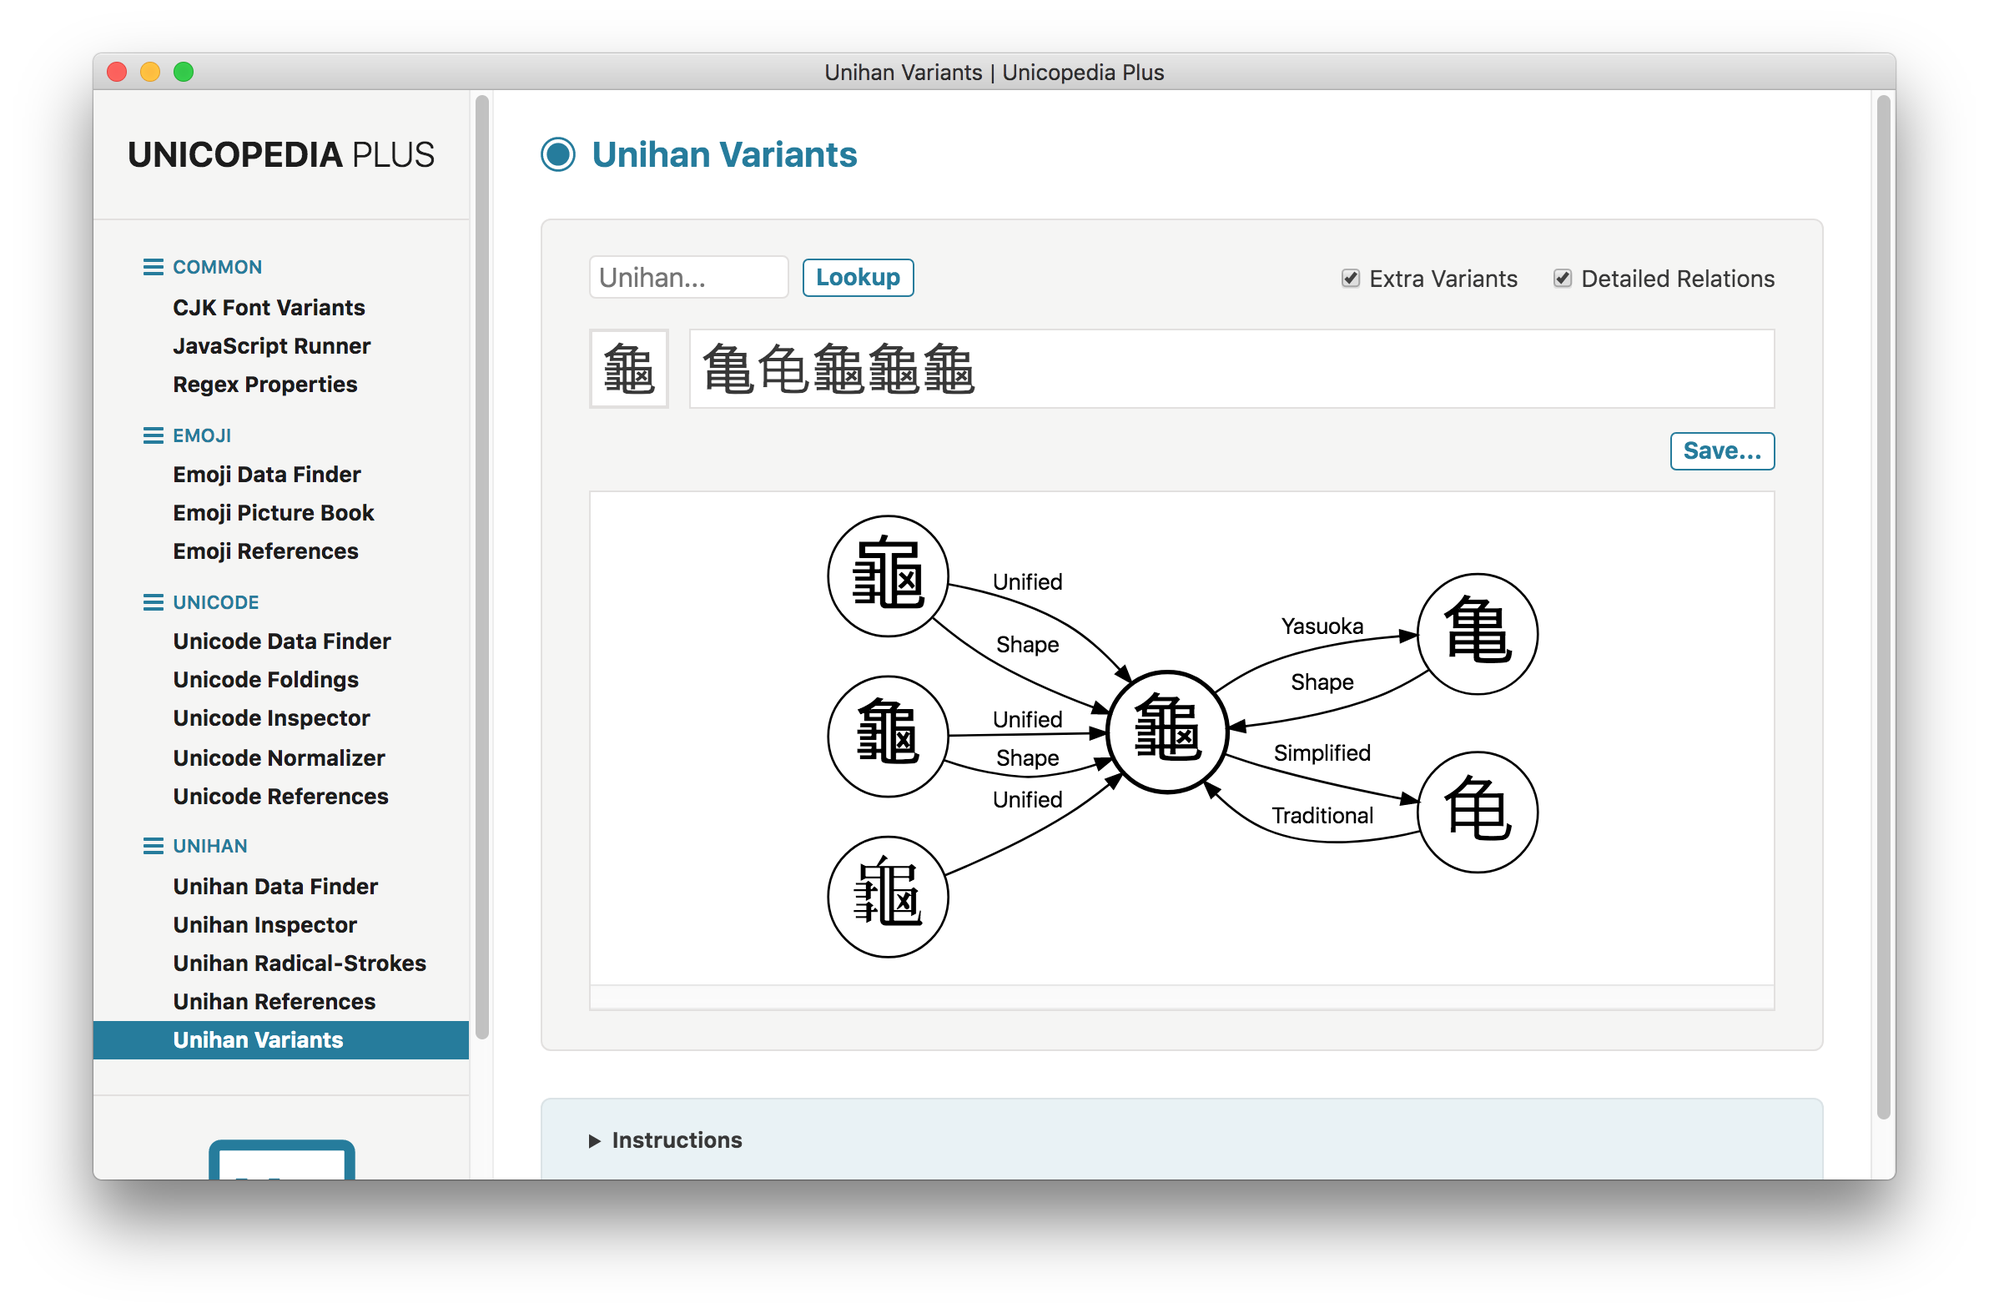
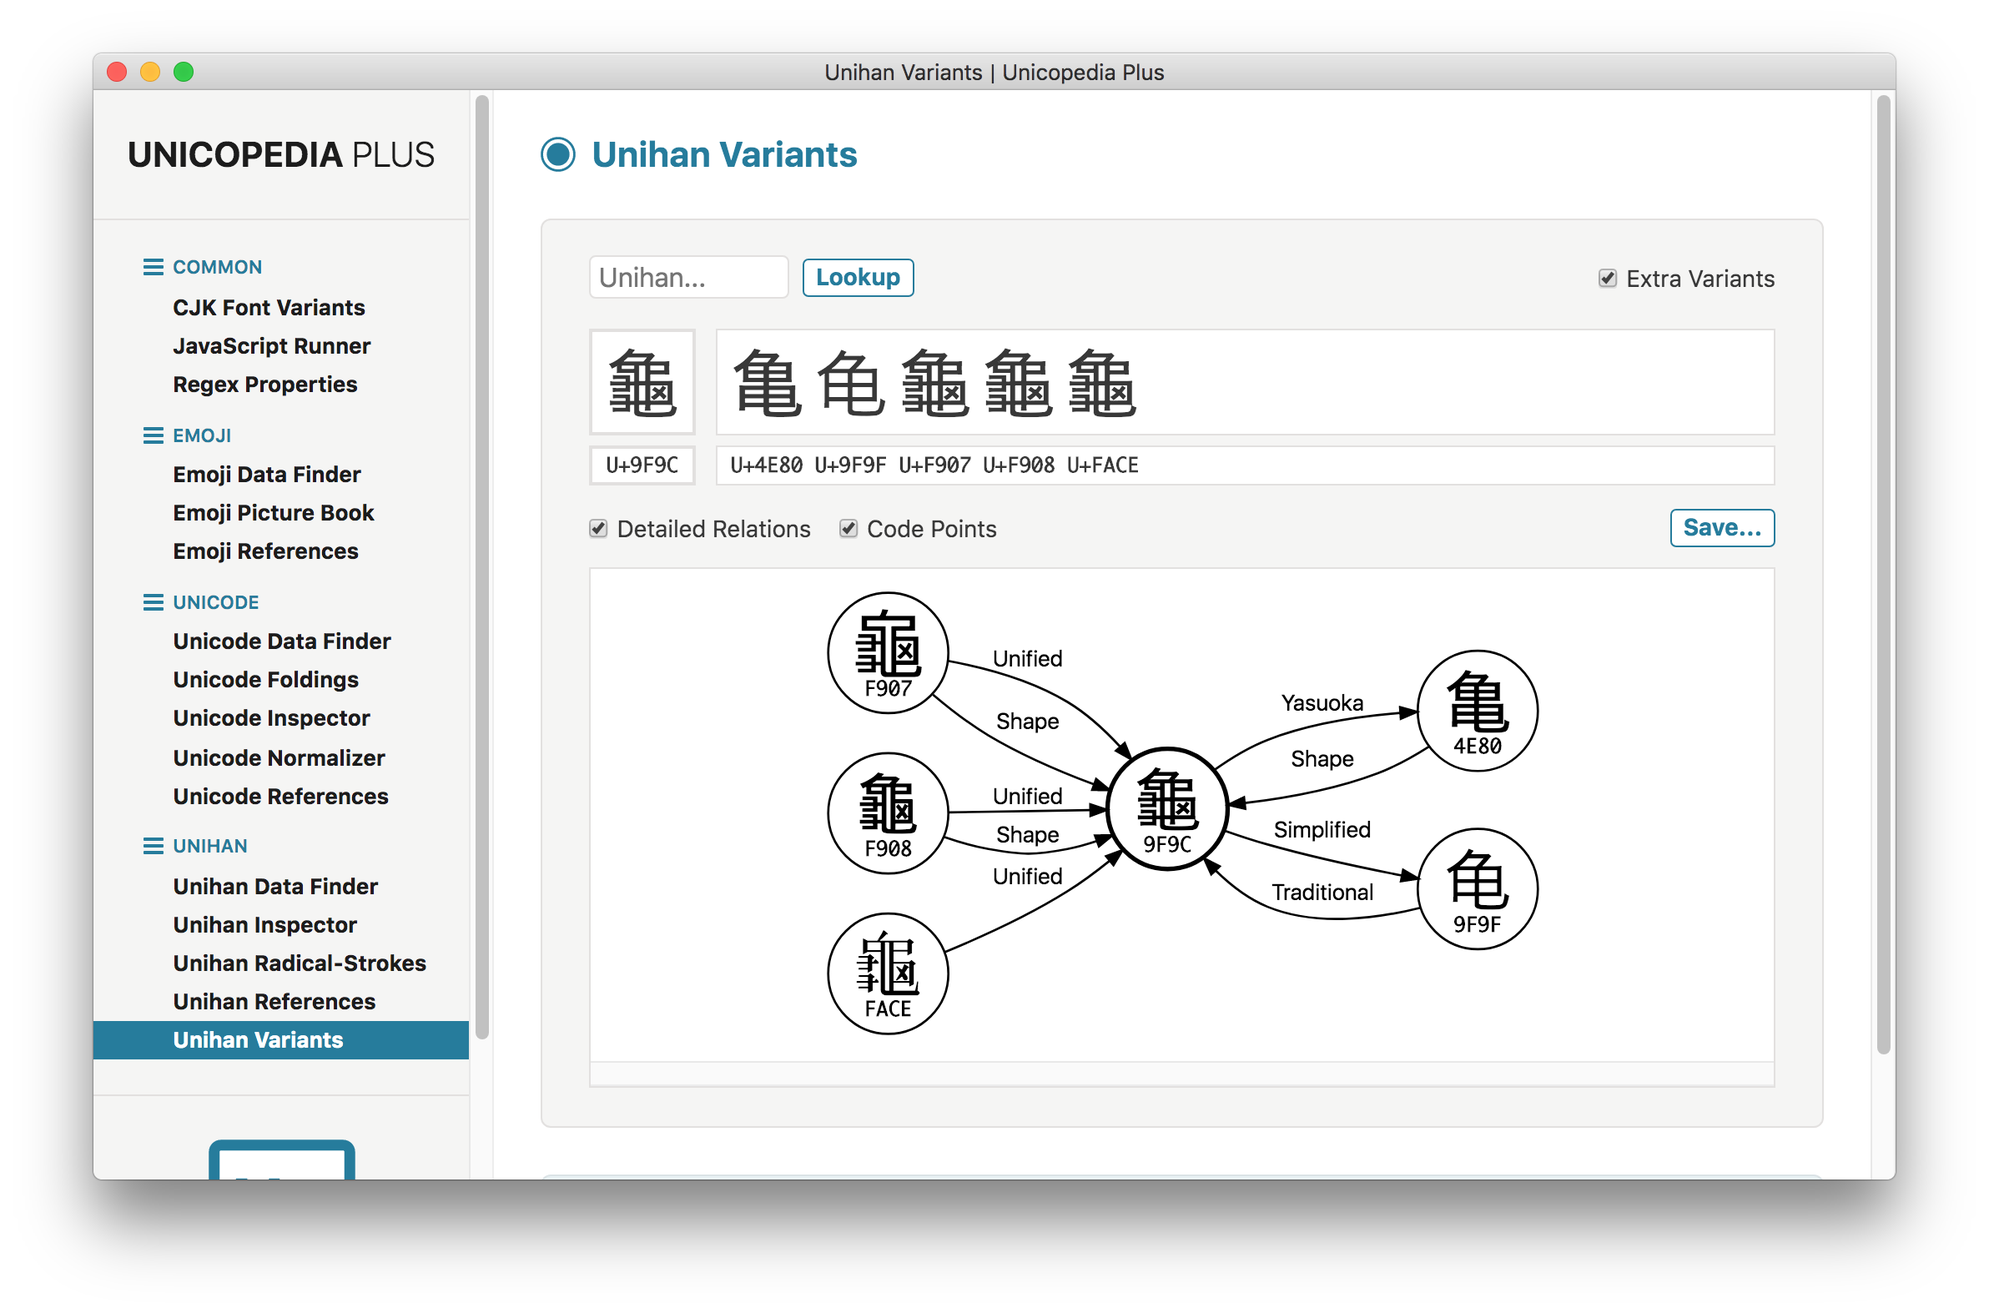
Updated app to 6.7.0

diff --git a/renderer/units/Unihan Variants/import.js b/renderer/units/Unihan Variants/import.js
@@ -4,9 +4,12 @@ const unit = document.getElementById ('unihan-variants-unit');
 const unihanInput = unit.querySelector ('.unihan-input');
 const lookupButton = unit.querySelector ('.lookup-button');
 const extraVariantsCheckbox = unit.querySelector ('.extra-variants-checkbox');
-const detailedRelationsCheckbox = unit.querySelector ('.detailed-relations-checkbox');
 const linearCharacter = unit.querySelector ('.linear-character');
 const linearVariants = unit.querySelector ('.linear-variants');
+const linearCodePoint = unit.querySelector ('.linear-code-point');
+const linearCodePoints = unit.querySelector ('.linear-code-points');
+const codePointsCheckbox = unit.querySelector ('.code-points-checkbox');
+const detailedRelationsCheckbox = unit.querySelector ('.detailed-relations-checkbox');
 const saveSVGButton = unit.querySelector ('.save-svg-button');
 const graphContainer = unit.querySelector ('.graph-container');
 //
@@ -50,6 +53,7 @@ module.exports.start = function (context)
         unihanHistory: [ ],
         unihanCharacter: "",
         extraVariantsCheckbox: false,
+        codePointsCheckbox: false,
         detailedRelationsCheckbox: false,
         defaultFolderPath: context.defaultFolderPath,
         instructions: true
@@ -257,6 +261,30 @@ module.exports.start = function (context)
     let dotString;
     let svgResult;
     //
+    let parser = new DOMParser ();
+    let serializer = new XMLSerializer ();
+    //
+    function postProcessSVG (svg)
+    {
+        let doc = parser.parseFromString (svg, 'text/xml');
+        let ellipses = doc.documentElement.querySelectorAll ('ellipse');
+        for (let ellipse of ellipses)
+        {
+            let cx = ellipse.getAttribute ('cx');
+            let texts = ellipse.parentNode.querySelectorAll ('text');
+            for (let text of texts)
+            {
+                let textAnchor = text.getAttribute ('text-anchor');
+                if (textAnchor !== "middle")
+                {
+                    text.setAttribute ('text-anchor', "middle");
+                    text.setAttribute ('x', cx);
+                }
+            }
+        }
+        return serializer.serializeToString (doc);
+    }
+    //
     function displayData (character)
     {
         dotString = "";
@@ -272,6 +300,8 @@ module.exports.start = function (context)
         {
             linearVariants.firstChild.remove ();
         }
+        linearCodePoint.textContent = "";
+        linearCodePoints.textContent = "";
         while (graphContainer.firstChild)
         {
             graphContainer.firstChild.remove ();
@@ -296,6 +326,7 @@ module.exports.start = function (context)
             symbol.title = getTooltip (character);
             symbol.textContent = character;
             linearCharacter.appendChild (symbol);
+            linearCodePoint.textContent = unicode.charactersToCodePoints (character);
             let relations = getVariantRelations (character);
             // console.log (relations);
             let variants = [ ];
@@ -322,12 +353,35 @@ module.exports.start = function (context)
                     symbol.textContent = variant;
                     linearVariants.appendChild (symbol);
                 }
+                linearCodePoints.textContent = unicode.charactersToCodePoints (variants.join (""));
             }
             try
             {
+                function getOptionsString (character, isLookedUp)
+                {
+                    let codePoint = unicode.charactersToCodePoints (character);
+                    let label = (codePointsCheckbox.checked) ?
+                        '<<FONT FACE="system-ui, sans-serif" POINT-SIZE="33">{{character}}</FONT><BR/><FONT FACE="Monaco, Noto Mono, monospace" POINT-SIZE="9"><B>{{codepoint}}</B></FONT>>' :
+                        '<<FONT FACE="system-ui, sans-serif" POINT-SIZE="36">{{character}}</FONT>>'                        
+                    let options =
+                    [
+                        { name: "tooltip", value: JSON.stringify (getTooltip (character)) },
+                        { name: "style", value: isLookedUp && "bold" },
+                        { name: "label", value: label.replace ("{{character}}", character).replace ("{{codepoint}}", codePoint.replace ("U+", "")) }
+                    ];
+                    let optionsArray = [ ];
+                    for (let option of options)
+                    {
+                        if (option.value)
+                        {
+                            optionsArray.push (`${option.name} = ${option.value}`);
+                        }
+                    }
+                    return optionsArray.join (", ");
+                }
                 let data = "";
-                data += `    "${character}" [ tooltip = ${JSON.stringify (getTooltip (character))}, style = bold ]`;
-                data += variants.map (variant => `\n    "${variant}" [ tooltip = ${JSON.stringify (getTooltip (variant))} ]`).join ("");
+                data += `    "${character}" [ ${getOptionsString (character, true)} ]`;
+                data += variants.map (variant => `\n    "${variant}" [ ${getOptionsString (variant)} ]`).join ("");
                 if (detailedRelationsCheckbox.checked)
                 {
                     let toCharacters = { };
@@ -382,10 +436,12 @@ module.exports.start = function (context)
                     data += variants.map (variant => `\n    "${character}" -- "${variant}"`).join ("");
                 }
                 // console.log (data);
+                let codePoint = unicode.charactersToCodePoints (character);
                 dotString =
                     dotTemplate
                     .replace ('{{graph}}', detailedRelationsCheckbox.checked ? 'digraph' : 'graph')
                     .replace ('{{rankdir}}', detailedRelationsCheckbox.checked ? 'LR' : 'TB')
+                    .replace ('{{comment}}', JSON.stringify (`${character} ${codePoint} | ${context.name} | ${context.app}`))
                     .replace ('{{data}}', data);
                 // console.log (dotString);
                 viz.renderString (dotString, { engine: 'dot', format: 'svg' })
@@ -393,7 +449,7 @@ module.exports.start = function (context)
                 (
                     result =>
                     {
-                        svgResult = result;
+                        svgResult = postProcessSVG (result); // Hack to fix incorrect horizontal centering of text in circle!
                         graphContainer.innerHTML = svgResult;
                         saveSVGButton.disabled = false;
                     }
@@ -410,7 +466,6 @@ module.exports.start = function (context)
         unihanInput.value = "";
         unihanInput.dispatchEvent (new Event ('input'));
         displayData (character);
-        unit.scrollTop = 0;
     }
     //
     graphContainer.addEventListener
@@ -459,6 +514,9 @@ module.exports.start = function (context)
     //
     extraVariantsCheckbox.checked = prefs.extraVariantsCheckbox;
     extraVariantsCheckbox.addEventListener ('click', (event) => { updateUnihanData (currentUnihanCharacter); });
+    //
+    codePointsCheckbox.checked = prefs.codePointsCheckbox;
+    codePointsCheckbox.addEventListener ('click', (event) => { updateUnihanData (currentUnihanCharacter); });
     //
     detailedRelationsCheckbox.checked = prefs.detailedRelationsCheckbox;
     detailedRelationsCheckbox.addEventListener ('click', (event) => { updateUnihanData (currentUnihanCharacter); });
@@ -515,6 +573,7 @@ module.exports.stop = function (context)
         unihanHistory: unihanHistory,
         unihanCharacter: currentUnihanCharacter,
         extraVariantsCheckbox: extraVariantsCheckbox.checked,
+        codePointsCheckbox: codePointsCheckbox.checked,
         detailedRelationsCheckbox: detailedRelationsCheckbox.checked,
         defaultFolderPath: defaultFolderPath,
         instructions: instructions.open

diff --git a/renderer/units/Unihan Variants/import.html b/renderer/units/Unihan Variants/import.html
@@ -6,16 +6,24 @@
                 <button class="lookup-button" type="button">Lookup</button>
             </span>
             <span class="option-group">
-                <label class="checkbox" title="If checked, Yasuoka variants are also included; if unchecked, only the standard Unihan variants are listed"><input class="extra-variants-checkbox" type="checkbox">&nbsp;Extra Variants</label>
-                <label class="checkbox" title="If checked, detailed relations are displayed, making use of a directed labeled graph; if unchecked, a basic undirected graph is used instead"><input class="detailed-relations-checkbox" type="checkbox">&nbsp;Detailed Relations</label>
+                <label class="checkbox" title="If checked, Yasuoka variants are also included;&#10;if unchecked, only the standard Unihan variants are listed"><input class="extra-variants-checkbox" type="checkbox">&nbsp;Extra Variants</label>
             </span>
         </div>
         <table class="linear-wrapper">
-            <tr class="linear-row">
+            <tr class="linear-row characters">
                 <td class="linear-character"></td><td class="linear-gap"></td><td class="linear-variants"></td>
             </tr>
+            <tr class="linear-row-gap"></tr>
+            <tr class="linear-row code-points">
+                <td class="linear-code-point"></td><td class="linear-gap"></td><td class="linear-code-points"></td>
+            </tr>
+        </table>
         </table>
         <div class="options">
+            <span class="option-group">
+                <label class="checkbox" title="If checked, detailed relations are displayed, making use of a directed labeled graph;&#10;if unchecked, a basic undirected graph is used instead"><input class="detailed-relations-checkbox" type="checkbox">&nbsp;Detailed Relations</label>
+                <label class="checkbox" title="If checked, code points are displayed below each Unihan character of the graph"><input class="code-points-checkbox" type="checkbox">&nbsp;Code Points</label>
+            </span>
             <span class="action">
                 <button class="save-svg-button" type="button">Save...</button>
             </span>
@@ -33,6 +41,7 @@
                 <li>Previously looked up characters are kept in a history stack; use the <kbd>Alt</kbd>+<kbd>↑</kbd> and <kbd>Alt</kbd>+<kbd>↓</kbd> keyboard shortcuts to navigate through them up and down inside the input field.</li>
                 <li>Click the <kbd>Extra Variants</kbd> checkbox to include the Yasuoka variants as well; otherwise, only the standard Unihan variants are listed.</li>
                 <li>Click the <kbd>Detailed Relations</kbd> checkbox to make use of a directed labeled graph to display variant relations; otherwise, a basic undirected graph is used instead.</li>
+                <li>Click the <kbd>Code Points</kbd> checkbox to display as well the code point of each Unihan character of the graph.</li>
                 <li>The different variant relations are indicated using the following labels:
                     <ul>
                         <li><code>Semantic</code>: characters listed under the <em>kSemanticVariant</em> Unihan tag</li>

diff --git a/renderer/units/Unihan Variants/import.css b/renderer/units/Unihan Variants/import.css
@@ -50,7 +50,8 @@
     outline-color: var(--color-error);
 }
 
-#unihan-variants-unit .checkbox:last-of-type
+#unihan-variants-unit .code-points-checkbox,
+#unihan-variants-unit .save-svg-button
 {
     margin-left: 1.5em;
 }
@@ -64,34 +65,37 @@
 
 #unihan-variants-unit .linear-row
 {
-    font-size: 36px;
+    background-color: white;
+    font-size: 48px;
     line-height: 1em;
     vertical-align: middle;
-    height: 48px;
+    height: 64px;
     user-select: text;
     cursor: text;
 }
 
-#unihan-variants-unit .linear-character
+#unihan-variants-unit .linear-character,
+#unihan-variants-unit .linear-code-point
 {
-    background-color: white;
     border: 2px solid var(--color-border);
     text-align: center;
     vertical-align: middle;
-    width: 48px;
-    min-width: 48px;
+    width: 64px;
+    min-width: 64px;
 }
 
-#unihan-variants-unit .linear-variants
+#unihan-variants-unit .linear-variants,
+#unihan-variants-unit .linear-code-points
 {
-    background-color: white;
     border: 1px solid var(--color-border);
     text-align: left;
     vertical-align: middle;
     width: 100%;
     white-space: nowrap;
+    max-width: 0;
     overflow: hidden;
-    padding: 0 6px;
+    text-overflow: ellipsis;
+    padding: 0 8px;
 }
 
 #unihan-variants-unit .linear-gap
@@ -105,10 +109,30 @@
     user-select: none;
 }
 
+#unihan-variants-unit .linear-row-gap
+{
+    height: 6px;
+    border: none;
+    background: none;
+}
+
+#unihan-variants-unit .linear-variants
+{
+    letter-spacing: 6px;
+}
+
+#unihan-variants-unit .linear-row.code-points
+{
+    font-family: Monaco, "Noto Mono", monospace;
+    font-size: 12px;
+    font-weight: bold;
+    height: 2em;
+}
+
 #unihan-variants-unit .options
 {
     display: flex;
-    justify-content: flex-end;
+    justify-content: space-between;
     align-items: center;
 }
 

diff --git a/renderer/lib/unicode/unicode.js b/renderer/lib/unicode/unicode.js
@@ -403,6 +403,7 @@ const lineBreaks =
 // https://www.unicode.org/history/publicationdates.html
 const versionDates =
 {
+    "1.0": "October 1991",
     "1.1": "June 1993",
     "2.0": "July 1996",
     "2.1": "May 1998",
@@ -412,7 +413,7 @@ const versionDates =
     "4.0": "April 2003",
     "4.1": "March 2005",
     "5.0": "July 2006",
-    "5.1": "March 2008",
+    "5.1": "April 2008",
     "5.2": "October 2009",
     "6.0": "October 2010",
     "6.1": "January 2012",
@@ -424,7 +425,8 @@ const versionDates =
     "10.0": "June 2017",
     "11.0": "June 2018",
     "12.0": "March 2019",
-    "12.1": "May 2019"
+    "12.1": "May 2019",
+    "13.0": "March 2020"
 };
 //
 function uniHexify (string)
@@ -554,7 +556,7 @@ function getCharacterData (character)
         if ((parseInt (version.first, 16) <= index) && (index <= parseInt (version.last, 16)))
         {
             characterData.age = version.age;
-            characterData.ageDate = versionDates[version.age];
+            characterData.ageDate = versionDates[version.age] || "Date Unknown";
             break;
         }
     }
@@ -834,7 +836,7 @@ function getCharacterBasicData (character)
         if ((parseInt (version.first, 16) <= index) && (index <= parseInt (version.last, 16)))
         {
             characterBasicData.age = version.age;
-            characterBasicData.ageDate = versionDates[version.age];
+            characterBasicData.ageDate = versionDates[version.age] || "Date Unknown";
             break;
         }
     }

diff --git a/renderer/units/Unihan Radical-Strokes/import.html b/renderer/units/Unihan Radical-Strokes/import.html
@@ -3,10 +3,10 @@
         <div class="actions">
             <div class="action-group rs-2-group">
                 <span class="action">
-                    <label class="checkbox" title="If checked, the search is performed on the Unihan full set; if unchecked, it is limited to the IICore set of CJK unified ideographs in common usage"><input class="full-set-checkbox" type="checkbox">&nbsp;Unihan Full Set</label>
+                    <label class="checkbox" title="If checked, the search is performed on the Unihan full set;&#10;if unchecked, it is limited to the IICore set of CJK unified ideographs in common usage"><input class="full-set-checkbox" type="checkbox">&nbsp;Unihan Full Set</label>
                 </span>
                 <span class="action">
-                    <label class="checkbox" title="If checked, the search uses all radical/strokes source tags; if unchecked, it only uses the IRG-defined source tag common to all Unihan characters"><input class="extra-sources-checkbox" type="checkbox">&nbsp;Extra Sources</label>
+                    <label class="checkbox" title="If checked, the search uses all radical/strokes source tags;&#10;if unchecked, it only uses the IRG-defined source tag common to all Unihan characters"><input class="extra-sources-checkbox" type="checkbox">&nbsp;Extra Sources</label>
                 </span>
             </div>
             <div class="action-group rs-group">

diff --git a/renderer/renderer.js b/renderer/renderer.js
@@ -449,6 +449,7 @@ for (let unitImport of unitImports)
             unitImport.storage = new Storage (`${id}-preferences`);
             let context =
             {
+                app: `${appName} v${appVersion}`,
                 name: unitImport.name,
                 baseURL: unitImport.URL,
                 getPrefs: unitImport.storage.get,

diff --git a/renderer/units/CJK Font Variants/import.js b/renderer/units/CJK Font Variants/import.js
@@ -446,7 +446,7 @@ module.exports.start = function (context)
     //
     const GraphemeSplitter = require ('grapheme-splitter');
     //
-    var splitter = new GraphemeSplitter ();
+    let splitter = new GraphemeSplitter ();
     //
     function isWideGrapheme (grapheme)
     {

diff --git a/README.md b/README.md
@@ -421,6 +421,7 @@ The following utilities are currently available:
 - Previously looked up characters are kept in a history stack; use the <kbd>Alt</kbd>+<kbd>↑</kbd> and <kbd>Alt</kbd>+<kbd>↓</kbd> keyboard shortcuts to navigate through them up and down inside the input field.
 - Click the <kbd>Extra Variants</kbd> checkbox to include the Yasuoka variants as well; otherwise, only the standard Unihan variants are listed.
 - Click the <kbd>Detailed Relations</kbd> checkbox to make use of a directed labeled graph to display variant relations; otherwise, a basic undirected graph is used instead.
+- Click the <kbd>Code Points</kbd> checkbox to display as well the code point of each Unihan character of the graph.
 - The different variant relations are indicated using the following labels:
     - `Semantic`: characters listed under the *kSemanticVariant* Unihan tag
     - `Shape`: characters listed under the *kZVariant* Unihan tag

diff --git a/CHANGES.md b/CHANGES.md
@@ -2,6 +2,12 @@
 
 This project adheres to [Semantic Versioning](https://semver.org/).
 
+## 6.7.0
+
+- Added display of code points to the **Unihan Variants** utility.
+- Updated Unicode release dates.
+- Updated `Electron` to version `8.0.2`.
+
 ## 6.6.0
 
 - Added support for `Emoji 13.0` to the **Emoji Data Finder** and **Emoji Picture Book** utilities:
